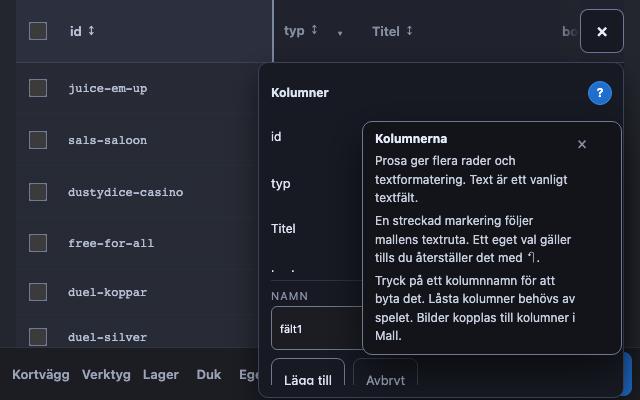
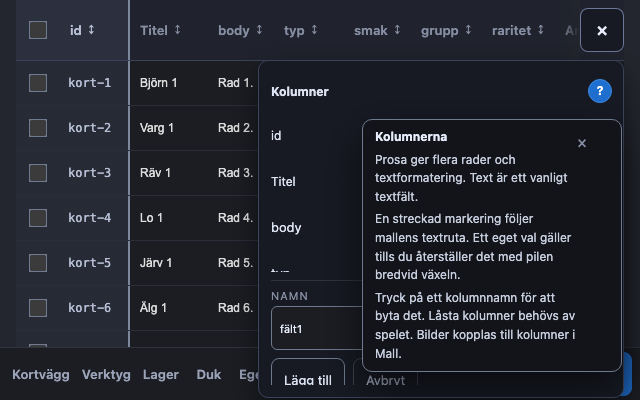
Kolumnväljarens rad slutar i en kolumn: återställningen står intill växeln och ritas med kroken (#674)
Låset stod 53 px till höger om ×:en på varannan rad, eftersom återställningens plats låg efter
×:en. Nu står återställningen mellan växeln och ×, pilarna går i samma ordning, och låset
hamnar i ×:ets kolumn. ↶ var maskinens typsnitts hårlinje; HookGlyph är redigerarens egen.

diff --git a/packages/web/test/data-table-layout.test.tsx b/packages/web/test/data-table-layout.test.tsx
@@ -795,6 +795,49 @@ describe('the way back to the height in the column door (#739)', () => {
   }, 60_000)
 })
 
+// The row's last control is the × or, where a column cannot be taken away, the lock that stands
+// in its place (#674): the two are one column down the list, so a row's ending reads the same on
+// every row. The way back to the height belongs to the switch and stands beside it, drawn with the
+// editor's own hook rather than a ↶ the machine's font makes a hairline of.
+describe('the column door ends every row in one column (#674)', () => {
+  it('puts the lock under the ×, and the way back between the switch and the ×', async () => {
+    const user = userEvent.setup()
+    const doc = projectDoc()
+    doc.prose = { title: true }
+    const { container, unmount } = render(<Table doc={doc} />)
+    await user.click(screen.getByRole('button', { name: 'Kolumner' }))
+    const html = container.innerHTML
+    unmount()
+    const page = await browser.newPage({ viewport: { width: VIEW.w, height: VIEW.h } })
+    try {
+      await page.setContent(shellOf(html, ''), { waitUntil: 'load' })
+      const read = await page.evaluate(() => {
+        const right = (el: Element | null) => (el ? Math.round(el.getBoundingClientRect().right) : null)
+        const rows = [...document.querySelectorAll('.byd-columns-list li')]
+        const follow = document.querySelector('.byd-columns .byd-prose-follow')!
+        const row = follow.closest('li')!
+        return {
+          ends: rows.map((li) => right(li.querySelector('.byd-data-dropfield, .byd-columns-system'))),
+          switchRight: right(row.querySelector('.byd-prose-switch')),
+          followLeft: Math.round(follow.getBoundingClientRect().left),
+          followRight: right(follow),
+          removeLeft: Math.round(row.querySelector('.byd-data-dropfield')!.getBoundingClientRect().left),
+          drawn: follow.querySelector('svg') !== null,
+          typed: follow.textContent,
+        }
+      })
+      expect(read.ends.length).toBeGreaterThan(2)
+      expect(new Set(read.ends).size).toBe(1)
+      expect(read.followLeft).toBeGreaterThanOrEqual(read.switchRight!)
+      expect(read.followRight).toBeLessThanOrEqual(read.removeLeft)
+      expect(read.drawn).toBe(true)
+      expect(read.typed).toBe('')
+    } finally {
+      await page.close()
+    }
+  }, 60_000)
+})
+
 // The column door's own question (#858): «Ta bort fältet body» asked in the same band over the
 // head that the row's × used to (#739), so the table — and the door hanging from its head — moved
 // down under the hand that had just pressed the ×. It asks in the foot, as the row's × and the

diff --git a/packages/web/src/editor/ColumnDoor.tsx b/packages/web/src/editor/ColumnDoor.tsx
@@ -165,16 +165,17 @@ export function ColumnDoor({ cell, columns, canRemove, onRemove, removeRef, aski
   // What a row has to stand on. `id` and `antal` have neither a name that is a control nor an × —
   // they are span names with the padlock in the ×'s place — so a row with nothing to focus is no
   // row in the ring at all. A width is a control only for a column a hand has pulled (#46).
-  // The switch stands between the name and the × (#615), and the way back to the height on the
-  // same row, so the arrows walk the row in the order it is read.
+  // The switch stands between the name and the × (#615), and the way back to the height beside
+  // the switch it answers (#674), so the arrows walk the row in the order it is read and the × —
+  // or the lock in its place — is every row's last.
   const cellsOf = (field: string): Cell[] => {
     const prose = proseHere(field)
     return [
       ...(canRename(field) ? (['name'] as Cell[]) : []),
       ...(widths[field] !== undefined ? (['width'] as Cell[]) : []),
       ...(prose ? (['prose', 'plain'] as Cell[]) : []),
-      ...(canRemove(field) ? (['remove'] as Cell[]) : []),
       ...(prose && prose.choice !== null ? (['follow'] as Cell[]) : []),
+      ...(canRemove(field) ? (['remove'] as Cell[]) : []),
     ]
   }
   const rows = columns.filter((field) => cellsOf(field).length > 0)
@@ -290,6 +291,7 @@ export function ColumnDoor({ cell, columns, canRemove, onRemove, removeRef, aski
                     </button>
                   )}
                   {prose && <ProseSwitch label={fieldLabel(field, t)} {...prose} onProse={(next) => onProse?.(field, next)} keys={keys} />}
+                  {prose && <ProseReset label={fieldLabel(field, t)} {...prose} onProse={(next) => onProse?.(field, next)} keys={keys} />}
                   {canRemove(field) ? (
                     <button
                       type="button"
@@ -309,7 +311,6 @@ export function ColumnDoor({ cell, columns, canRemove, onRemove, removeRef, aski
                       </svg>
                     </span>
                   )}
-                  {prose && <ProseReset label={fieldLabel(field, t)} {...prose} onProse={(next) => onProse?.(field, next)} keys={keys} />}
                 </>
               )}
               {renaming === field && refused !== null && (

diff --git a/packages/web/src/editor/ProseSwitch.tsx b/packages/web/src/editor/ProseSwitch.tsx
@@ -1,4 +1,5 @@
 import type { HTMLAttributes, Ref } from 'react'
+import { HookGlyph } from '../glyphs.js'
 import { useT } from '../i18n/index.js'
 
 // Vad en kolumn skrivs som, där den står (L43, ändrat i #615): i kolumnlistan bakom `＋`, på samma
@@ -56,14 +57,16 @@ export function ProseSwitch({ label, prose, choice, onProse, keys }: ProseSwitch
   )
 }
 
-// Reset is an action, so it stays beside the switch. The explanation is shared by the list.
+// Reset is an action, so it stays beside the switch it answers, before the ×. Its slot keeps its
+// width when there is nothing to reset, so the × stands in one column down the list. The
+// explanation is shared by the list.
 export function ProseReset({ label, choice, onProse, keys }: ProseSwitchProps) {
   const t = useT()
   return (
     <span className="byd-prose-reset">
       {choice !== null && (
         <button type="button" className="byd-prose-follow" {...keys('follow')} aria-label={t('table.prose.turn.named', { turn: t('table.prose.follow'), field: label })} title={t('table.prose.follow')} onClick={() => onProse(null)}>
-          <span aria-hidden="true">↶</span>
+          <HookGlyph />
         </button>
       )}
     </span>

diff --git a/packages/web/src/editor/editor.css b/packages/web/src/editor/editor.css
@@ -2811,7 +2811,8 @@ button.byd-columns-name:hover, button.byd-columns-name:focus-visible { border-co
 .byd-columns-head { flex: 0 0 auto; justify-content: space-between; min-height: var(--byd-tap); }
 .byd-columns-head strong { font-size: 12px; }
 .byd-prose-reset { flex: 0 0 var(--byd-tap); }
-.byd-columns .byd-prose-follow { width: var(--byd-tap); min-height: var(--byd-tap); padding: 0; border: 0; background: transparent; color: #c3cbdd; font: inherit; font-size: 20px; cursor: pointer; }
+.byd-columns .byd-prose-follow { display: grid; place-items: center; width: var(--byd-tap); min-height: var(--byd-tap); padding: 0; border: 0; background: transparent; color: #c3cbdd; font: inherit; cursor: pointer; }
+.byd-columns .byd-prose-follow .byd-glyph { width: 16px; height: 16px; }
 .byd-columns .byd-prose-follow:hover, .byd-columns .byd-prose-follow:focus-visible { color: #fff; }
 .byd-columns-system { flex: 0 0 var(--byd-tap); display: flex; align-items: center; justify-content: center; color: var(--byd-editor-quiet); }
 .byd-columns-system svg { flex: 0 0 auto; }

diff --git a/packages/web/test/data-table-prose.test.tsx b/packages/web/test/data-table-prose.test.tsx
@@ -279,4 +279,19 @@ describe('växeln nås med tangentbordet i dörrens egen ordning (#388, #615)', 
     await user.keyboard('{ArrowRight}')
     expect(document.activeElement).toBe(screen.getByRole('button', { name: 'Ta bort fältet body' }))
   })
+
+  // Vägen tillbaka till höjden hör till växeln och står intill den, före × (#674): pilarna går i
+  // den ordning raden läses, och × är radens sista kontroll, i samma kolumn som låset.
+  it('går till vägen tillbaka mellan växeln och ×', async () => {
+    const doc = projectDoc()
+    doc.prose = { body: false }
+    table(doc, { onRenameField: () => undefined })
+    door()
+    const user = userEvent.setup()
+    act(() => screen.getByRole('button', { name: 'Text, body' }).focus())
+    await user.keyboard('{ArrowRight}')
+    expect(document.activeElement).toBe(screen.getByRole('button', { name: 'Följ höjden igen, body' }))
+    await user.keyboard('{ArrowRight}')
+    expect(document.activeElement).toBe(screen.getByRole('button', { name: 'Ta bort fältet body' }))
+  })
 })

diff --git a/packages/web/src/i18n/en.editor.ts b/packages/web/src/i18n/en.editor.ts
@@ -584,7 +584,7 @@ export const enEditor = {
 
   'table.columns.help.topic': 'columns',
   'table.columns.help.prose': 'Prose gives you multiple lines and text formatting. Text is a plain text field.',
-  'table.columns.help.auto': 'A dashed selection follows the template’s text box. Your own choice stays until you reset it with ↶.',
+  'table.columns.help.auto': 'A dashed selection follows the template’s text box. Your own choice stays until you reset it with the arrow beside the switch.',
   'table.columns.help.manage': 'Press a column name to rename it. Locked columns are required by the game. Link images to columns in Template.',
   'table.columns': 'Columns',
   'table.column.moved': '{field} is column {at} of {of}',

diff --git a/packages/web/src/i18n/sv.editor.ts b/packages/web/src/i18n/sv.editor.ts
@@ -654,7 +654,7 @@ export const svEditor = {
 
   'table.columns.help.topic': 'kolumnerna',
   'table.columns.help.prose': 'Prosa ger flera rader och textformatering. Text är ett vanligt textfält.',
-  'table.columns.help.auto': 'En streckad markering följer mallens textruta. Ett eget val gäller tills du återställer det med ↶.',
+  'table.columns.help.auto': 'En streckad markering följer mallens textruta. Ett eget val gäller tills du återställer det med pilen bredvid växeln.',
   'table.columns.help.manage': 'Tryck på ett kolumnnamn för att byta det. Låsta kolumner behövs av spelet. Bilder kopplas till kolumner i Mall.',
   'table.columns': 'Kolumner',
   'table.column.moved': '{field} är kolumn {at} av {of}',

diff --git a/DESIGN-BESLUT.md b/DESIGN-BESLUT.md
@@ -5977,7 +5977,7 @@ C ger vanliga textkolumner en verktygsrad de inte har, och ett kolumnval görs f
 A kostar noll i huvudet och lägger valet på samma rad som namnbytet, vilket tar bort det pris L44 skrev ut.
 
 Valet är en växel **Prosa | Text** mellan kolumnens namn och ×.
-Reviderat 2026-10-03 efter beställarens genomgång av onödig löptext: kolumnens rad bär bara namn och kontroller. Måttuträkningen under varje rad tas bort; betydelsen av Prosa/Text och automatiskt/eget val förklaras en gång bakom listans `?`, med L32:s befintliga hjälplåda. «Följ höjden igen» står kvar som en återställningsknapp `↶` med fullständigt tillgängligt namn. Verktygets låsta kolumner visar ett lås med namngiven orsak för skärmläsare. En rad behåller minst 44 px även i ett lågt fönster; listan rullar i stället för att trycka ihop träffytorna.
+Reviderat 2026-10-03 efter beställarens genomgång av onödig löptext: kolumnens rad bär bara namn och kontroller. Måttuträkningen under varje rad tas bort; betydelsen av Prosa/Text och automatiskt/eget val förklaras en gång bakom listans `?`, med L32:s befintliga hjälplåda. «Följ höjden igen» står kvar som en återställningsknapp med fullständigt tillgängligt namn, intill växeln den svarar och före ×, ritad med redigerarens egen krok (`HookGlyph`) och inte med tecknet ↶, som maskinens typsnitt gör till en hårlinje. Platsen behåller sin bredd när det inte finns något att återställa, så att × står i en kolumn hela listan ned. Verktygets låsta kolumner visar ett lås med namngiven orsak för skärmläsare, i ×:ets kolumn. En rad behåller minst 44 px även i ett lågt fönster; listan rullar i stället för att trycka ihop träffytorna.
 Verktygets två kolumner, `id` och `antal`, har ingen växel: en kontroll som bara kan svara ett är ingen fråga.
 Dörren blev 340 px bred för att raden ska rymma namn, växel och × utan att namnet kläms.
 
@@ -5987,7 +5987,7 @@ En streckad kant finns inte för en skärmläsare och editorns a11y är inte mju
 ¶ är tyst för skärmläsaren; orden står i dörren.
 Att trycka den redan tryckta knappen på en kolumn som följer höjden gör förslaget till ett val, så att nästa omritning av mallen inte tar det.
 
-Växeln nås med dörrens egen tangentbordsordning (L45): raden är ett stopp i listan, och pilarna går namn → växel → × → återställning. Listans gemensamma hjälp är ett eget tabbstopp ovanför raderna.
+Växeln nås med dörrens egen tangentbordsordning (L45): raden är ett stopp i listan, och pilarna går namn → växel → återställning → ×. Listans gemensamma hjälp är ett eget tabbstopp ovanför raderna.
 ¶ står utanför rubrikknappens flöde, förankrat i dess högerkant, av samma skäl som pricken gjorde: knappen är `sticky` (#401) och `fitColumns` räknar en kolumns golv på flödet (#46).
 Priset är att valet är ett klick längre bort från kolumnen det gäller.
 

diff --git a/docs/ux-audits/2026-10-02/copy-review.md b/docs/ux-audits/2026-10-02/copy-review.md
@@ -20,8 +20,9 @@ på plats. Prototypen är borttagen efter implementation.
 Nu är raderna 44 px och panelen 470 px i samma sexkolumnsexempel. Panelen
 blir cirka 77 px lägre, trots att även låsta rader får full höjd. Listan rullar
 när fönstret är lågt. Prosa/Text och borttagning ligger kvar i varje rad;
-«Följ höjden igen» är en namngiven återställningsknapp, ↶. Ett lås ersätter
-systemkolumnens mening, med orsaken kvar i tillgängligt namn. Gemensam hjälp
+«Följ höjden igen» är en namngiven återställningsknapp, en ritad krok intill
+växeln. Ett lås ersätter systemkolumnens mening, med orsaken kvar i tillgängligt
+namn, och står i ×:ets kolumn. Gemensam hjälp
 förklarar textlägena, streckad markering, återställning, namnbyte och bilder.
 Måttuträkningarna tillför inget som behövs för valet och har tagits bort.
 
